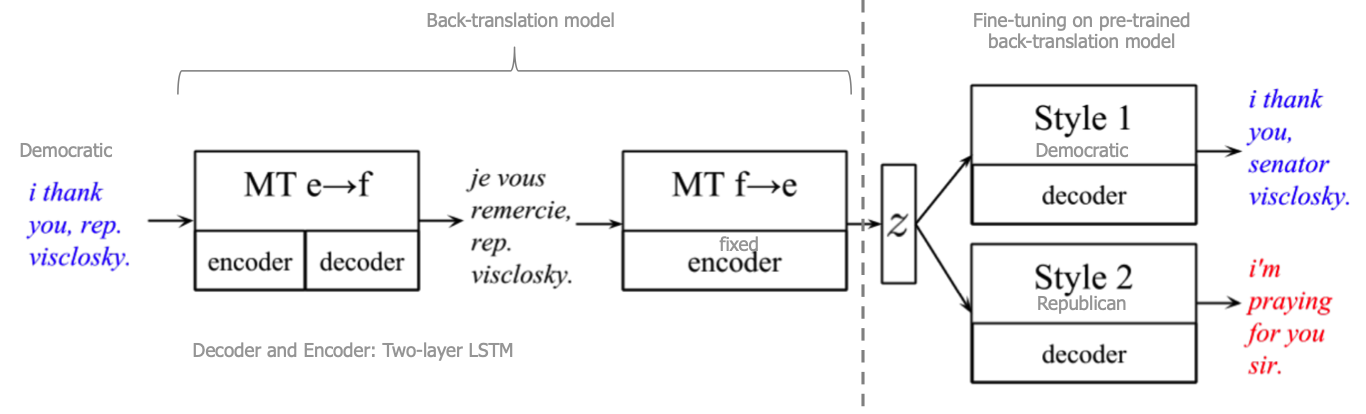
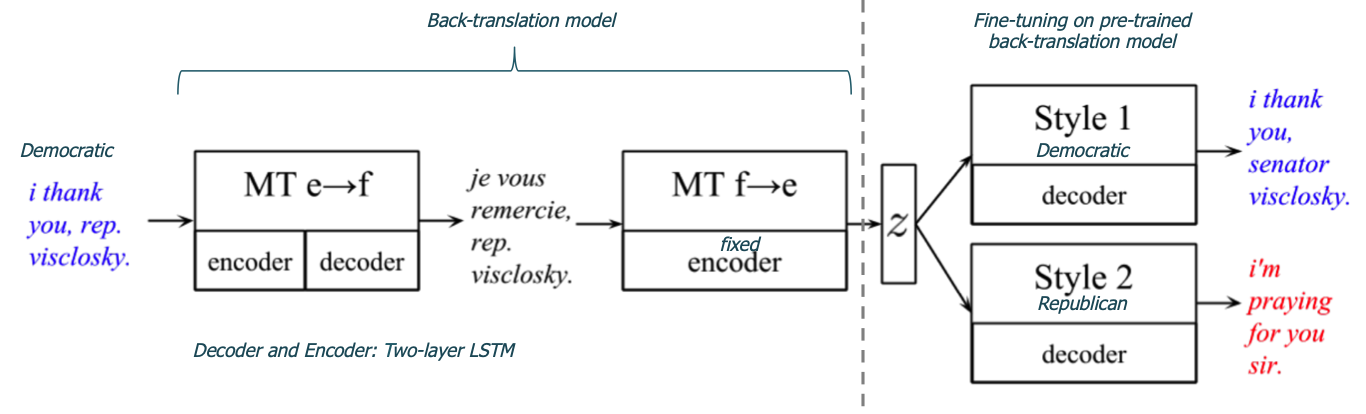
GAN for text: update images

diff --git a/notes/gan_styletransfer_text.md b/notes/gan_styletransfer_text.md
@@ -15,12 +15,12 @@ TLDR; GAN for style transfer in text with back-translation as pivot for style-ag
     * Model "learns a latent content representation using MT techniques, which aids grounding the meaning of the sentences and weakening the style attributes." 
 
     <p align="center">
-    <img src="./imgs/gan_styletransfer_text_model.png" height="200" alt="Main model">
+    <img src="./imgs/gan_styletransfer_text_model.png" height="180" alt="Main model">
     </p>
     
     * Classifier: Data used to train the classifier is different to data used by the style transfer generative model.
     <p align="center">
-    <img src="./imgs/gan_styletransfer_text_model_classifier.png" height="200" alt="Classifier">
+    <img src="./imgs/gan_styletransfer_text_model_classifier.png" height="180" alt="Classifier">
     </p>
 
 ### Notes
